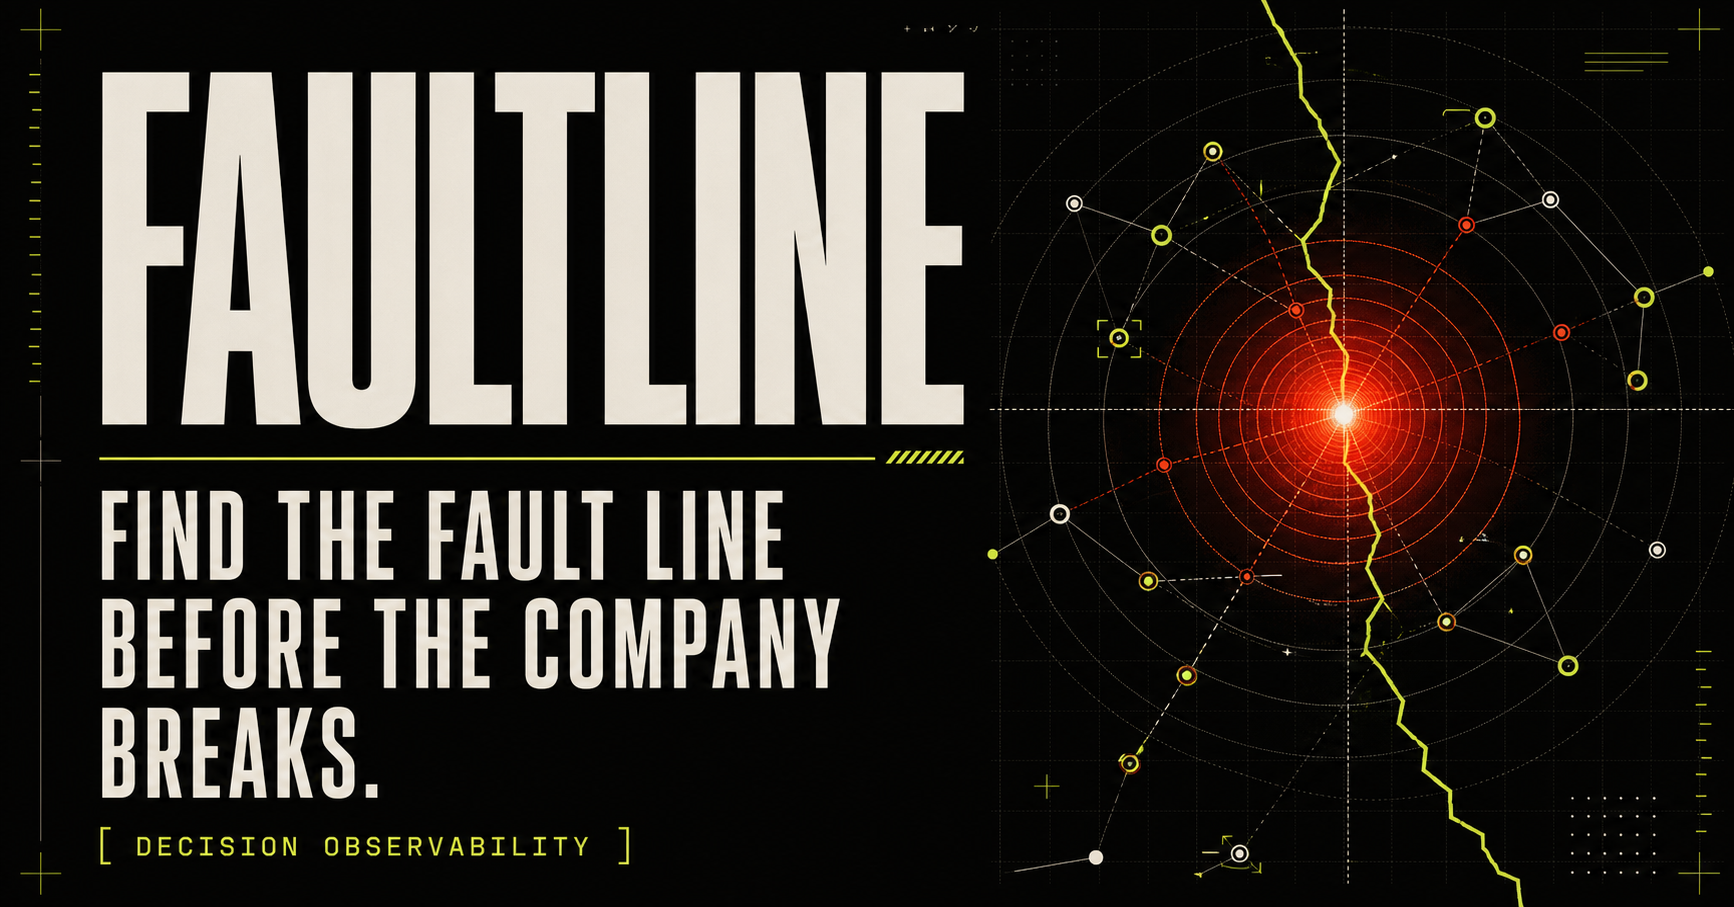
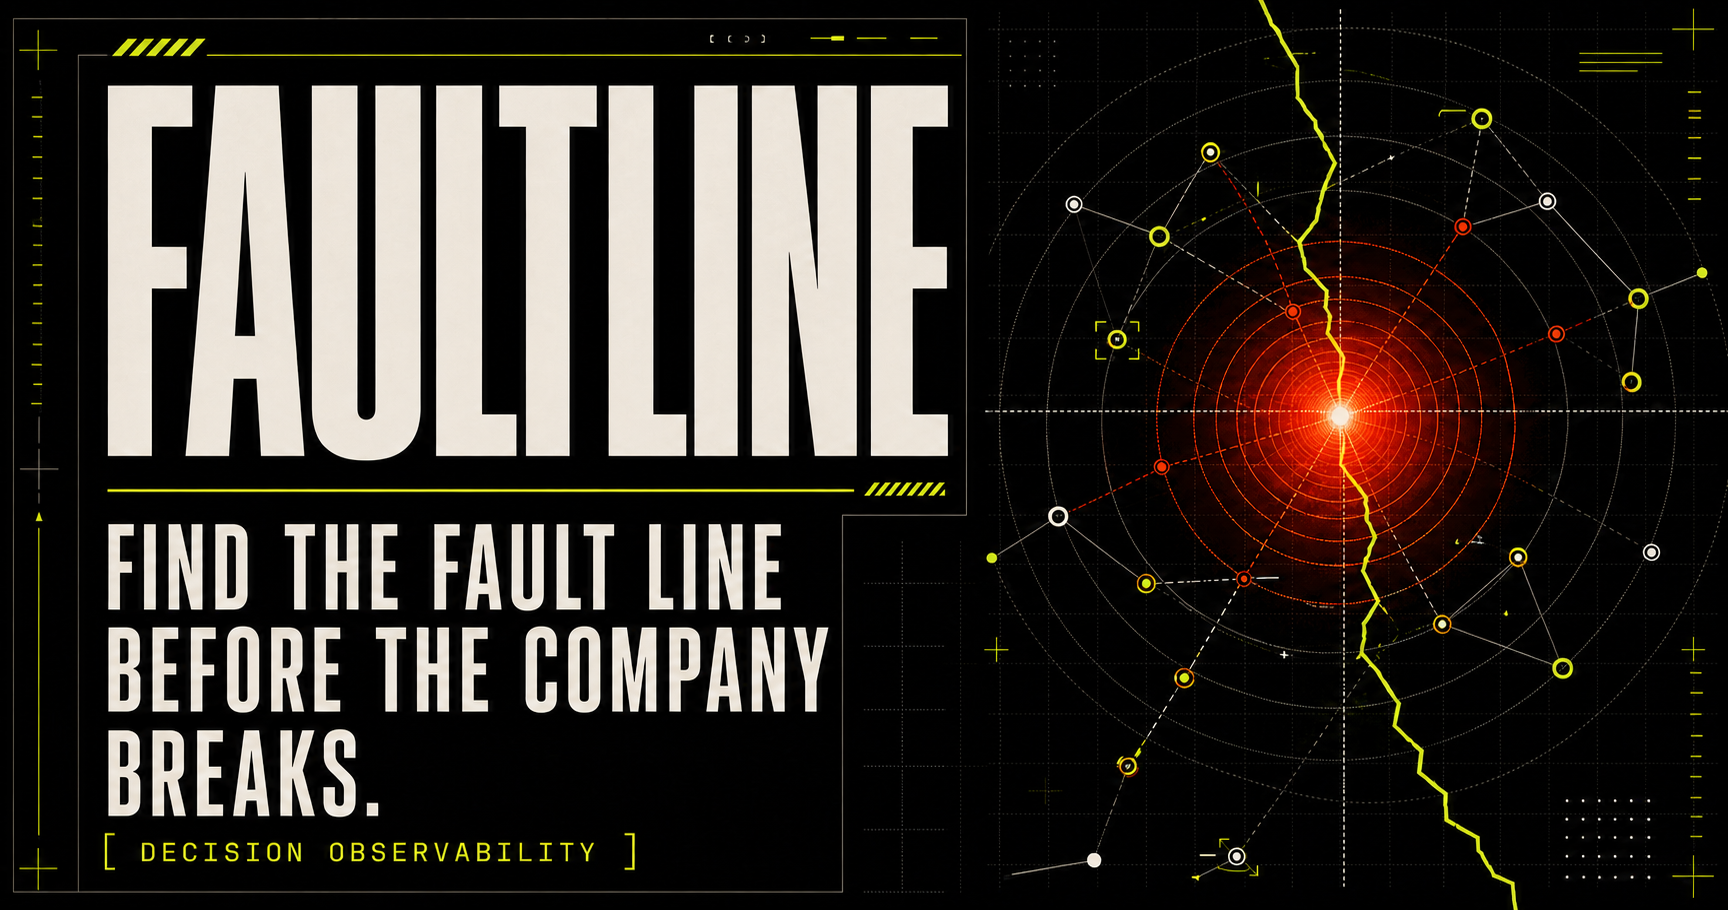
improve navigation and dialog accessibility

diff --git a/app/FaultlineApp.tsx b/app/FaultlineApp.tsx
@@ -6,6 +6,7 @@ import {
   type MouseEvent,
   useEffect,
   useMemo,
+  useRef,
   useState,
 } from "react";
 import {
@@ -71,6 +72,9 @@ export default function FaultlineApp() {
   const [toast, setToast] = useState("");
   const [savedDecisions, setSavedDecisions] = useState<PersistedDecision[]>([]);
   const [apiState, setApiState] = useState<"checking" | "connected" | "local">("checking");
+  const [activeSection, setActiveSection] = useState<(typeof navItems)[number][0]>("radar");
+  const modalRef = useRef<HTMLElement>(null);
+  const modalTriggerRef = useRef<HTMLElement | null>(null);
 
   useEffect(() => {
     let active = true;
@@ -95,6 +99,58 @@ export default function FaultlineApp() {
     const timeout = window.setTimeout(() => setToast(""), 3200);
     return () => window.clearTimeout(timeout);
   }, [toast]);
+
+  useEffect(() => {
+    const observer = new IntersectionObserver(
+      (entries) => {
+        const current = entries.find((entry) => entry.isIntersecting);
+        if (current) setActiveSection(current.target.id as (typeof navItems)[number][0]);
+      },
+      { rootMargin: "-18% 0px -68% 0px" },
+    );
+    navItems.forEach(([id]) => {
+      const section = document.getElementById(id);
+      if (section) observer.observe(section);
+    });
+    return () => observer.disconnect();
+  }, []);
+
+  useEffect(() => {
+    if (!modalOpen) return;
+    const previousOverflow = document.body.style.overflow;
+    document.body.style.overflow = "hidden";
+
+    const onKeyDown = (event: KeyboardEvent) => {
+      if (event.key === "Escape") {
+        event.preventDefault();
+        setModalOpen(false);
+        return;
+      }
+      if (event.key !== "Tab" || !modalRef.current) return;
+      const focusable = Array.from(
+        modalRef.current.querySelectorAll<HTMLElement>(
+          'button:not([disabled]), input:not([disabled]), textarea:not([disabled]), select:not([disabled])',
+        ),
+      );
+      const first = focusable[0];
+      const last = focusable.at(-1);
+      if (!first || !last) return;
+      if (event.shiftKey && (document.activeElement === first || !modalRef.current.contains(document.activeElement))) {
+        event.preventDefault();
+        last.focus();
+      } else if (!event.shiftKey && document.activeElement === last) {
+        event.preventDefault();
+        first.focus();
+      }
+    };
+
+    window.addEventListener("keydown", onKeyDown);
+    return () => {
+      window.removeEventListener("keydown", onKeyDown);
+      document.body.style.overflow = previousOverflow;
+      modalTriggerRef.current?.focus();
+    };
+  }, [modalOpen]);
 
   const strongestFault = decisionSignals[0];
   const evidenceCoverage = useMemo(
@@ -200,6 +256,11 @@ export default function FaultlineApp() {
     if (event.currentTarget === event.target) setModalOpen(false);
   }
 
+  function openModal() {
+    modalTriggerRef.current = document.activeElement as HTMLElement | null;
+    setModalOpen(true);
+  }
+
   return (
     <main className="app-shell">
       <header className="command-bar">
@@ -216,7 +277,7 @@ export default function FaultlineApp() {
             {apiState === "connected" ? "D1 LIVE" : apiState === "checking" ? "SYNCING" : "DEMO MODE"}
           </span>
         </div>
-        <button className="primary-button compact" onClick={() => setModalOpen(true)}>
+        <button className="primary-button compact" onClick={openModal}>
           <span>COMMIT DECISION</span><b>↗</b>
         </button>
       </header>
@@ -224,7 +285,15 @@ export default function FaultlineApp() {
       <aside className="side-rail" aria-label="Primary navigation">
         <nav>
           {navItems.map(([id, number, label]) => (
-            <button key={id} onClick={() => scrollToSection(id)}>
+            <button
+              key={id}
+              className={activeSection === id ? "active" : ""}
+              aria-current={activeSection === id ? "location" : undefined}
+              onClick={() => {
+                setActiveSection(id);
+                scrollToSection(id);
+              }}
+            >
               <span>{number}</span>{label}
             </button>
           ))}
@@ -447,7 +516,7 @@ export default function FaultlineApp() {
         <section className="workspace-section ledger-section" id="ledger">
           <div className="section-heading">
             <div><span>04 / DECISION LEDGER</span><h2>Memory with consequences.</h2></div>
-            <button className="outline-button" onClick={() => setModalOpen(true)}>+ NEW DECISION</button>
+            <button className="outline-button" onClick={openModal}>+ NEW DECISION</button>
           </div>
           <div className="ledger-table" role="table" aria-label="Decision ledger">
             <div className="ledger-head" role="row"><span>ID / SEALED</span><span>DECISION</span><span>OWNER</span><span>CONFIDENCE</span><span>STATE</span><span>INTEGRITY</span></div>
@@ -477,7 +546,7 @@ export default function FaultlineApp() {
           </div>
           <div className="ledger-footer">
             <div><span>WHY THIS EXISTS</span><p>Most companies remember what they chose. FAULTLINE preserves what they believed, what evidence existed, and whether their confidence deserved to survive contact with reality.</p></div>
-            <button className="primary-button" onClick={() => setModalOpen(true)}>COMMIT A DECISION <b>↗</b></button>
+            <button className="primary-button" onClick={openModal}>COMMIT A DECISION <b>↗</b></button>
           </div>
         </section>
 
@@ -491,7 +560,7 @@ export default function FaultlineApp() {
 
       {modalOpen && (
         <div className="modal-backdrop" onMouseDown={closeModal} role="presentation">
-          <section className="decision-modal" role="dialog" aria-modal="true" aria-labelledby="decision-modal-title">
+          <section ref={modalRef} className="decision-modal" role="dialog" aria-modal="true" aria-labelledby="decision-modal-title">
             <div className="modal-header"><div><span>NEW DECISION COMMIT</span><h2 id="decision-modal-title">Seal the belief state.</h2></div><button onClick={() => setModalOpen(false)} aria-label="Close dialog">×</button></div>
             <form onSubmit={commitDecision}>
               <label><span>DECISION</span><input name="title" required minLength={4} maxLength={160} placeholder="What are you committing to?" autoFocus /></label>

diff --git a/app/globals.css b/app/globals.css
@@ -262,6 +262,20 @@ button:disabled {
   background: rgba(216, 255, 62, 0.04);
 }
 
+.side-rail nav button.active {
+  color: var(--paper);
+  background: linear-gradient(90deg, rgba(216, 255, 62, 0.12), rgba(216, 255, 62, 0.02));
+}
+
+.side-rail nav button.active::after {
+  content: "";
+  position: absolute;
+  inset: 0 auto 0 0;
+  width: 2px;
+  background: var(--acid);
+  box-shadow: 0 0 14px rgba(216, 255, 62, 0.6);
+}
+
 .side-rail nav button span {
   color: var(--acid);
   opacity: 0.72;
@@ -1733,6 +1747,8 @@ button.signal-node {
   .side-rail nav { height: 100%; flex-direction: row; }
   .side-rail nav button { flex: 1; justify-content: center; padding: 8px 3px; border-bottom: 0; border-right: 1px solid var(--line); font-size: 0; }
   .side-rail nav button span { font-size: 9px; }
+  .side-rail nav button.active { background: linear-gradient(0deg, rgba(216, 255, 62, 0.12), rgba(216, 255, 62, 0.02)); }
+  .side-rail nav button.active::after { inset: auto 0 0; width: auto; height: 2px; }
   .rail-footer { display: none; }
   .main-canvas { margin-left: 0; padding-top: 58px; padding-bottom: 58px; }
   .hero-grid { min-height: auto; padding: 46px 18px 30px; gap: 38px; }
